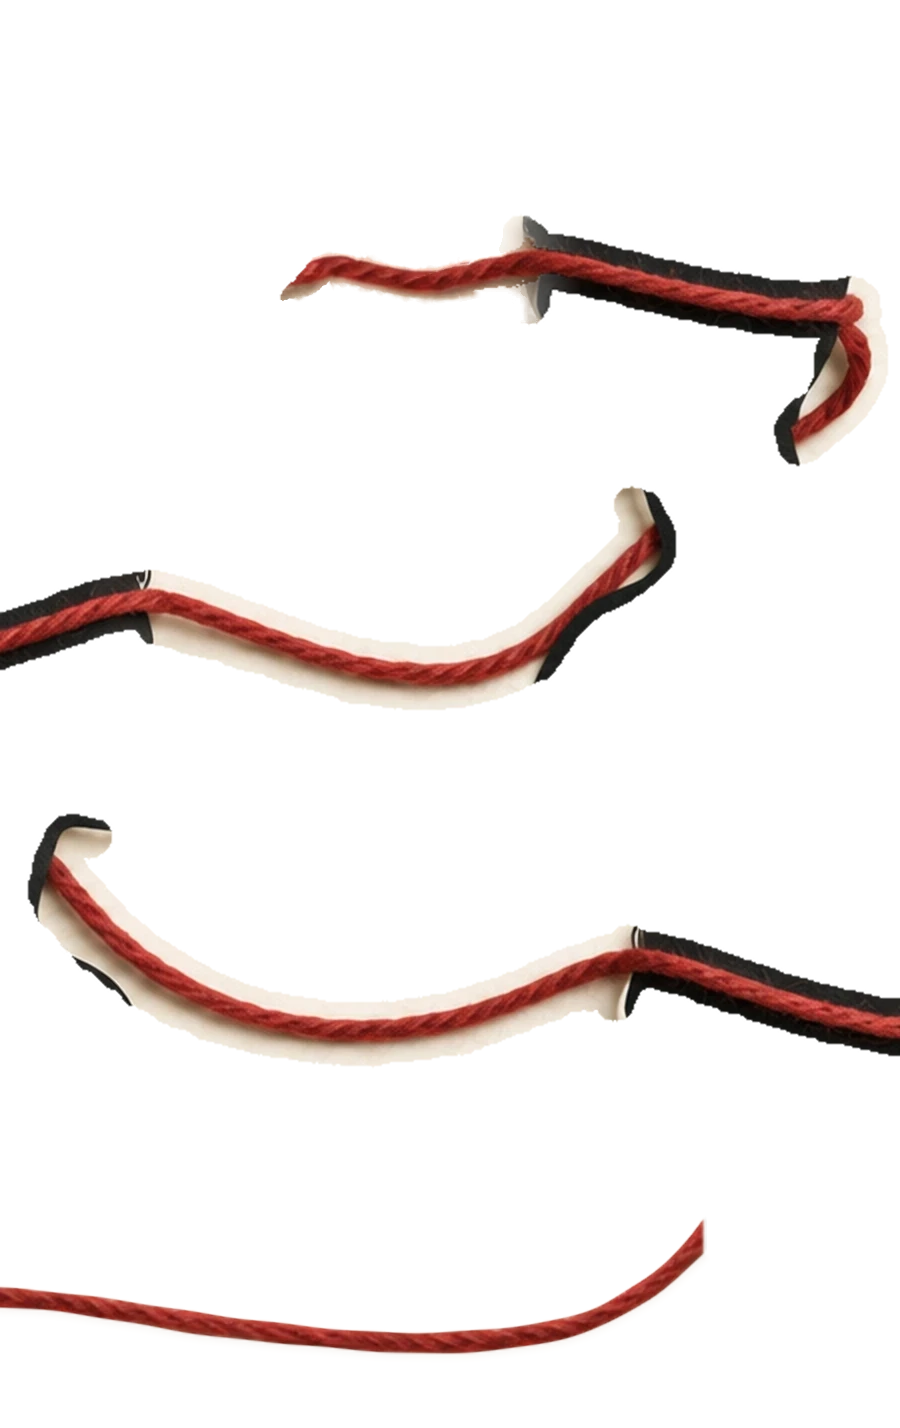
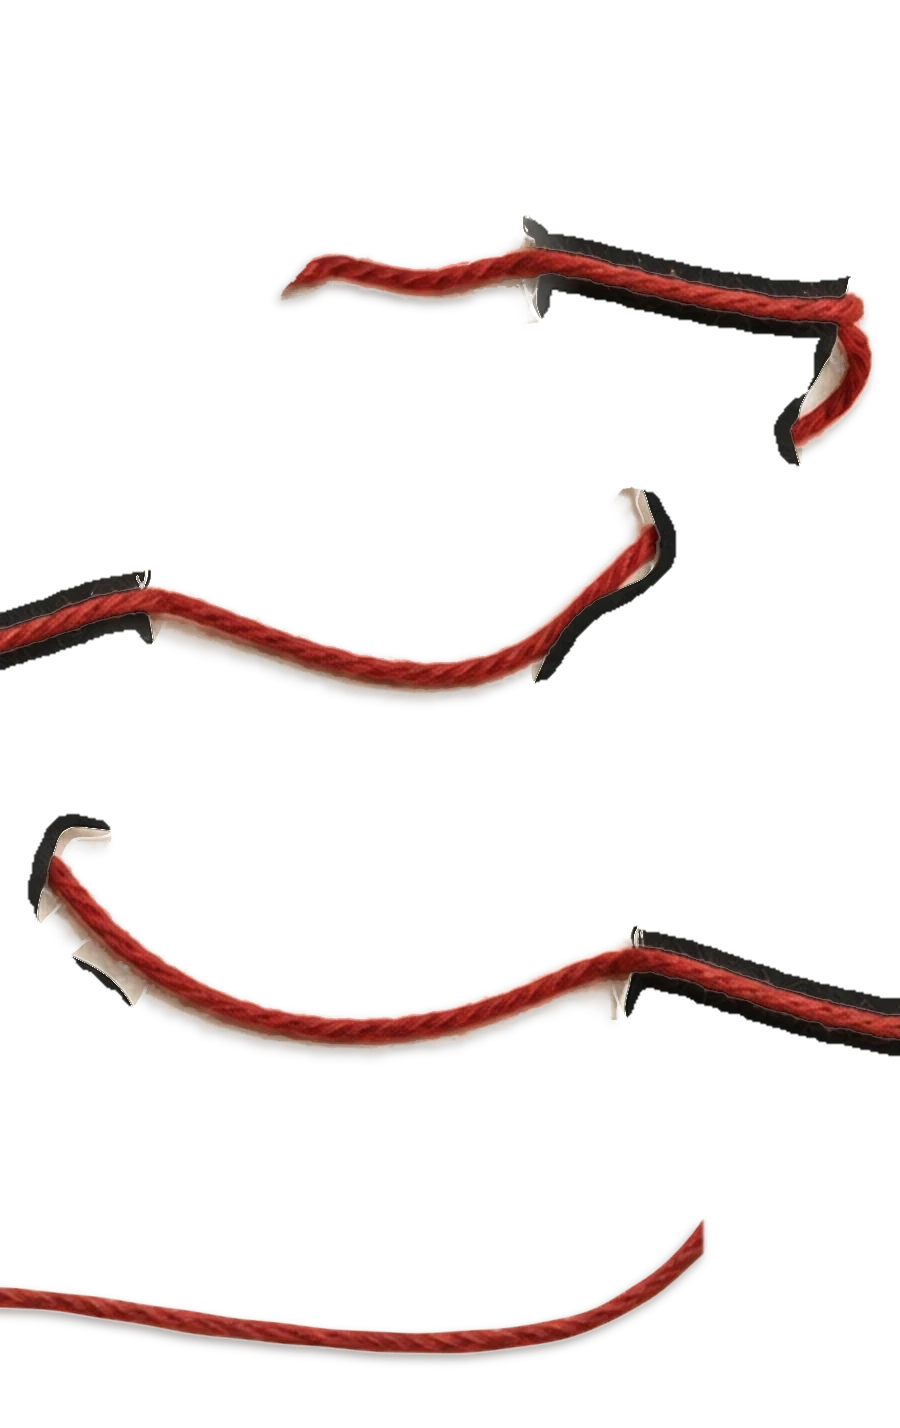
Matassa: ombra del filo unica e omogenea, via gli aloni che sbavavano sui profili, colore del filo uniforme (#20)
Claude-Session: https://claude.ai/code/session_01K8S9kDcMmADtdHMs7poTsz

diff --git a/assets/js/matassa.js b/assets/js/matassa.js
@@ -44,7 +44,7 @@
   function prepara() {
     var nome = verticale && verticale.matches ? 'stretto' : 'largo', T = TAGLI[nome];
     if (scena && scena.nome === nome) return;
-    Promise.all([carica(DIR + nome + '-base.webp?v=3'), carica(DIR + nome + '-filo.webp?v=3'), carica(DIR + nome + '-tempo.png?v=3')]).then(function (r) {
+    Promise.all([carica(DIR + nome + '-base.webp?v=4'), carica(DIR + nome + '-filo.webp?v=4'), carica(DIR + nome + '-tempo.png?v=4')]).then(function (r) {
       var fp = pixel(r[1], T.W, T.H), tp = pixel(r[2], T.W, T.H);
       cBase.width = cFilo.width = T.W; cBase.height = cFilo.height = T.H;
       var out = cFilo.getContext('2d').createImageData(T.W, T.H), od = out.data;

diff --git a/index.html b/index.html
@@ -596,7 +596,7 @@
 </footer>
 
 <!-- prima la matassa: se c'e', site.js non disegna il filo colorato dell'apertura -->
-<script src="assets/js/matassa.js?v=20261003s" defer></script>
+<script src="assets/js/matassa.js?v=20261003t" defer></script>
 <script src="assets/js/site.js?v=20261003q" defer></script>
 <script src="assets/js/cuciture.js?v=20261003c" defer></script>
 </body>
